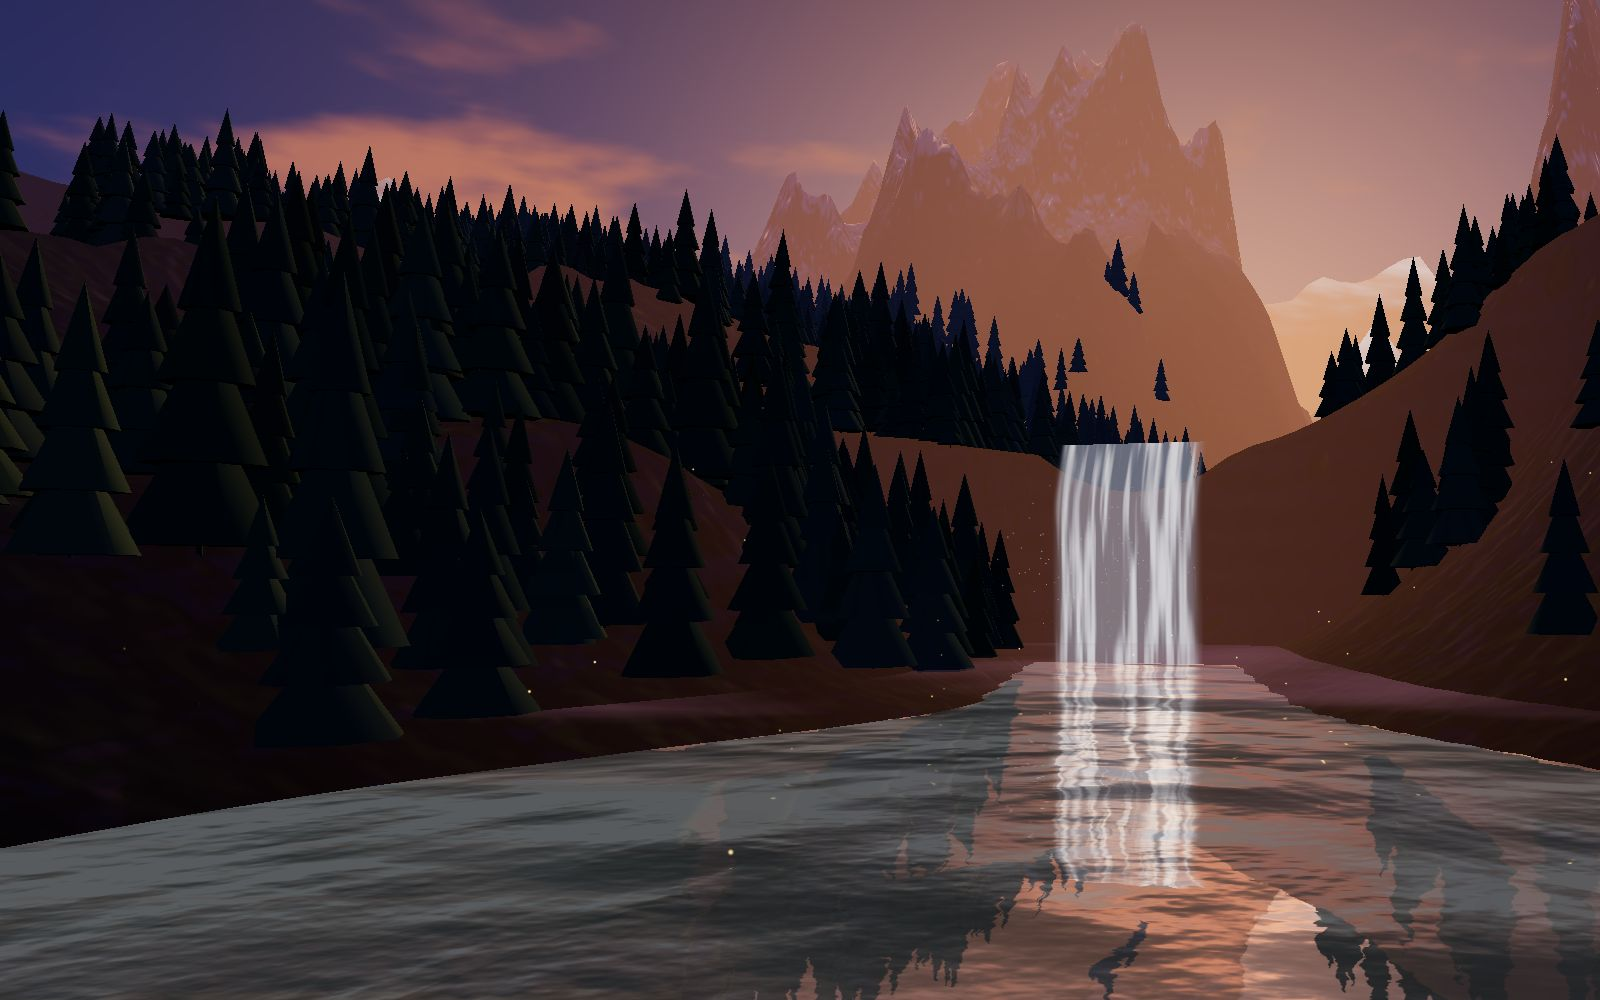
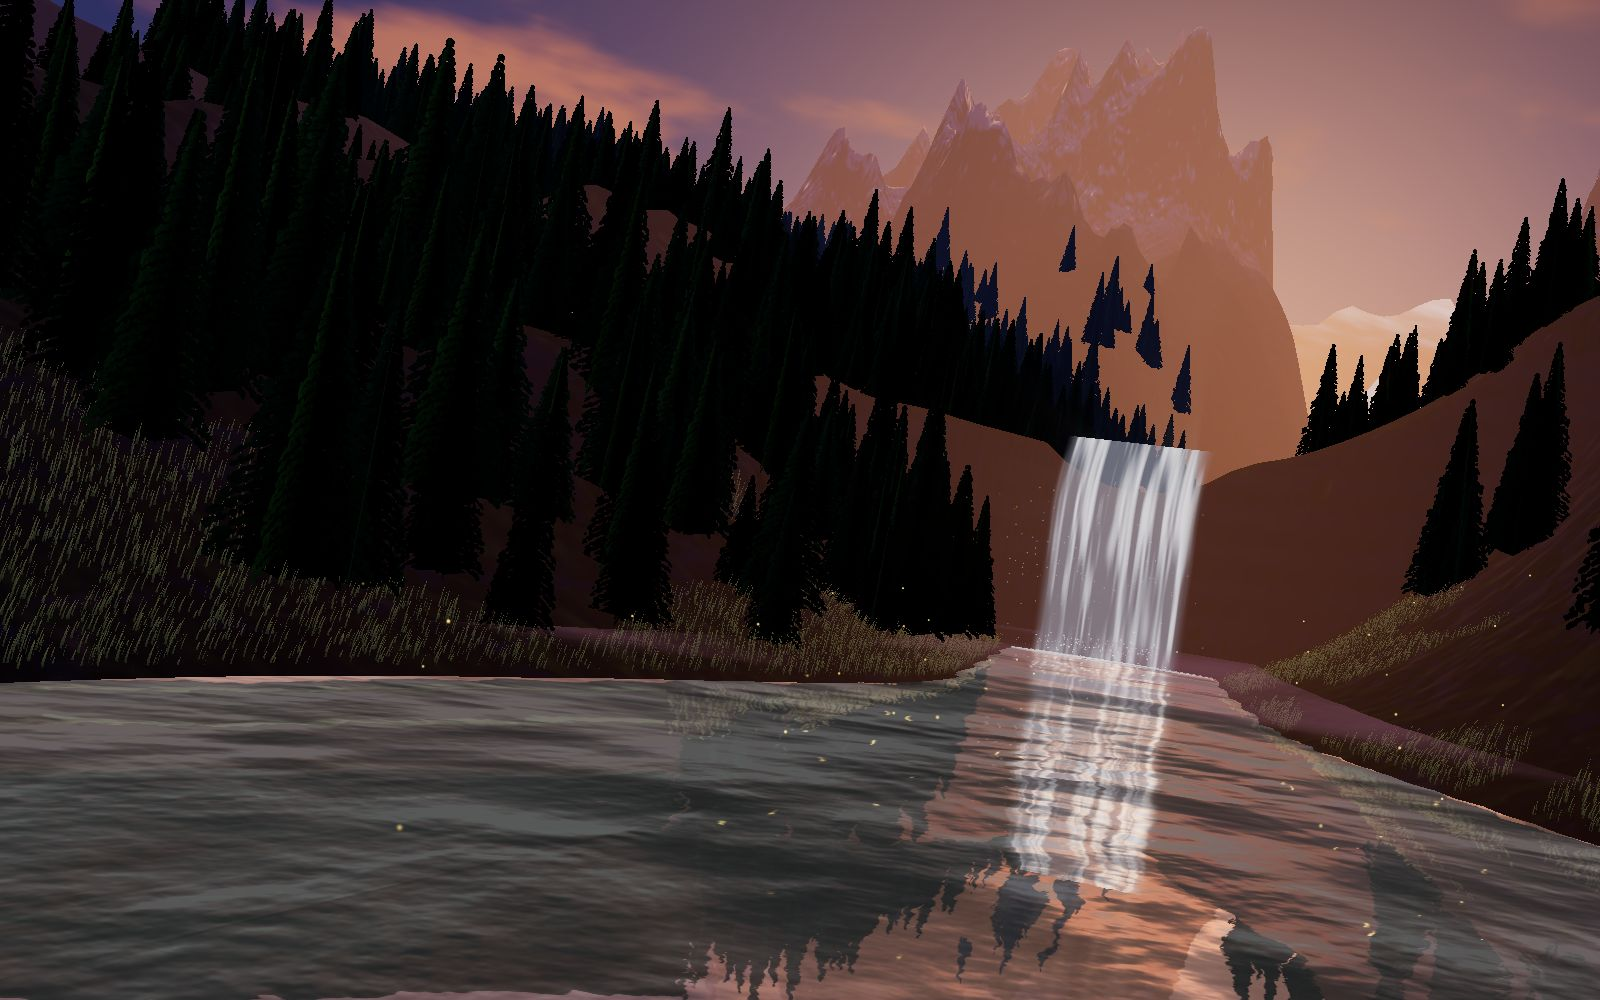
Realistic pines, meadow grass, sunbeams, waterfall foam and drone banking
- Pines are crossed cards painted with a procedural branch texture,
  giving real tree silhouettes; they still sway in the wind
- Instanced meadow grass on the lake shore, bending in the breeze
- White water and spray where the waterfall meets the lake
- Light-shaft pass fanning out from the sun (desktop)
- Camera banks gently into lateral moves while scrolling
- New poster and social image; README updated

Claude-Session: https://claude.ai/code/session_01PqPWpic3SoAv147RGqRmVc

diff --git a/src/scene.js b/src/scene.js
@@ -19,8 +19,9 @@ import {
   BufferAttribute, PlaneGeometry, SphereGeometry, ConeGeometry, ShaderMaterial, MeshLambertMaterial,
   HemisphereLight, DirectionalLight, Object3D, Color, Vector2, Vector3, Fog, MathUtils,
   BackSide, DoubleSide, AdditiveBlending, ACESFilmicToneMapping, SRGBColorSpace,
-  TextureLoader, RepeatWrapping, InstancedBufferAttribute,
+  TextureLoader, RepeatWrapping, InstancedBufferAttribute, InstancedBufferGeometry, CanvasTexture,
 } from 'three';
+import { ShaderPass } from 'three/addons/postprocessing/ShaderPass.js';
 import { Water } from 'three/addons/objects/Water.js';
 import { EffectComposer } from 'three/addons/postprocessing/EffectComposer.js';
 import { RenderPass } from 'three/addons/postprocessing/RenderPass.js';
@@ -150,6 +151,48 @@ function makeChapters() {
     process:   { pos: [riverX(-200) + 4, 34, -200], look: [riverX(-320), 40, -340],   fov: 46, sx: -0.45, sy: -0.05, mpos: [riverX(-196), 36, -196],  mfov: 60, msy: 0.3 },
     contact:   { pos: [0, 92, 20],                  look: [-10, 30, -360],            fov: 44, sx: 0.0,   sy: 0.12,  mpos: [0, 100, 30],              mfov: 58, msy: 0.1 },
   };
+}
+
+/* ---------------------------------------------------------------- pine texture */
+/* A pine painted once into a canvas: a trunk and drooping whorls of needle clusters,
+   darker inside, lighter at the tips. Used on crossed alpha-tested cards. */
+function makePineTexture() {
+  const W = 256, H = 512;
+  const c = document.createElement('canvas'); c.width = W; c.height = H;
+  const g = c.getContext('2d');
+  let seed = 7;
+  const rnd = () => ((seed = (seed * 16807) % 2147483647) / 2147483647);
+  g.fillStyle = '#2b1e15';
+  g.fillRect(W / 2 - 4, 60, 8, H - 60);
+  const whorls = 30;
+  for (let i = 0; i < whorls; i++) {
+    const p = i / (whorls - 1);
+    const y = 18 + p * (H - 70);
+    const half = (6 + p * 112) * (0.85 + rnd() * 0.3);
+    // dense dark core so the tree reads as solid
+    g.fillStyle = `hsl(${138 + rnd() * 8}, 32%, ${9 + rnd() * 4}%)`;
+    g.beginPath();
+    g.moveTo(W / 2 - half * 0.7, y + half * 0.28);
+    g.quadraticCurveTo(W / 2, y - 6, W / 2 + half * 0.7, y + half * 0.28);
+    g.lineTo(W / 2, y + half * 0.42);
+    g.closePath(); g.fill();
+    const clusters = 26 + Math.floor(p * 70);
+    for (let k = 0; k < clusters; k++) {
+      const side = rnd() < 0.5 ? -1 : 1;
+      const t = Math.pow(rnd(), 0.8);
+      const x = W / 2 + side * t * half;
+      const yy = y + t * t * half * 0.38 + (rnd() - 0.5) * 8;
+      const light = 12 + t * 16 + (1 - p) * 6 + rnd() * 8;
+      g.fillStyle = `hsl(${128 + rnd() * 18}, ${30 + rnd() * 15}%, ${light}%)`;
+      g.beginPath();
+      g.ellipse(x, yy, 3 + rnd() * 4, 2 + rnd() * 2.5, side * (0.35 + t * 0.4), 0, Math.PI * 2);
+      g.fill();
+    }
+  }
+  const tex = new CanvasTexture(c);
+  tex.colorSpace = SRGBColorSpace;
+  tex.anisotropy = 4;
+  return tex;
 }
 
 /* ---------------------------------------------------------------- world */
@@ -446,13 +489,21 @@ export function createWorld(canvas, { mobile = false } = {}) {
   const sun = new DirectionalLight(new Color('#ffb070'), 1.3);
   sun.position.copy(SUN_DIR).multiplyScalar(100).add(new Vector3(0, 60, 0));
   scene.add(hemi, sun);
-  const tiers = [[1.0, 0.42, 0.04], [0.82, 0.4, 0.26], [0.62, 0.36, 0.48], [0.4, 0.32, 0.68]].map(([r, h, y]) => {
-    const g = new ConeGeometry(r, h, 7, 1); g.translate(0, y + h / 2, 0); return g;
+  // three crossed cards per tree, painted with the pine texture
+  const cards = [0, Math.PI / 3, (2 * Math.PI) / 3].map((r) => {
+    const g = new PlaneGeometry(1, 1); g.translate(0, 0.5, 0); g.rotateY(r); return g;
   });
-  const trunk = new ConeGeometry(0.12, 0.2, 5, 1); trunk.translate(0, 0.0, 0);
-  const treeGeo = track(mergeGeometries([trunk, ...tiers]));
-  tiers.forEach((g) => g.dispose()); trunk.dispose();
-  const treeMat = track(new MeshLambertMaterial({ color: 0xffffff }));
+  const treeGeo = track(mergeGeometries(cards));
+  cards.forEach((g) => g.dispose());
+  { // soften card lighting: normals lean upward so every card catches the sky light
+    const nrm = treeGeo.attributes.normal;
+    for (let i = 0; i < nrm.count; i++) {
+      const v = new Vector3(nrm.getX(i) * 0.35, 0.94, nrm.getZ(i) * 0.35).normalize();
+      nrm.setXYZ(i, v.x, v.y, v.z);
+    }
+  }
+  const pineTex = track(makePineTexture());
+  const treeMat = track(new MeshLambertMaterial({ map: pineTex, alphaTest: 0.5, side: DoubleSide, color: 0xffffff }));
   treeMat.onBeforeCompile = (shader) => {
     shader.uniforms.uTime = uTime;
     shader.vertexShader = shader.vertexShader
@@ -483,11 +534,11 @@ export function createWorld(canvas, { mobile = false } = {}) {
     if (keepClear.some(([cx, cz]) => (x - cx) ** 2 + (z - cz) ** 2 < 220)) continue; // never in front of the lens
     const s = 0.8 + Math.random() * 0.9;
     dummy.position.set(x, h - 0.3, z);
-    dummy.scale.set(1.6 * s, (5.5 + Math.random() * 3.5) * s, 1.6 * s);
+    dummy.scale.set(3.6 * s, (6.5 + Math.random() * 3.5) * s, 3.6 * s);
     dummy.rotation.y = Math.random() * Math.PI;
     dummy.updateMatrix();
     trees.setMatrixAt(placed, dummy.matrix);
-    tint.setHSL(0.36 + Math.random() * 0.07, 0.32, 0.11 + Math.random() * 0.08);
+    tint.setHSL(0.3 + Math.random() * 0.08, 0.25, 0.62 + Math.random() * 0.3);
     trees.setColorAt(placed, tint);
     placed++;
   }
@@ -545,6 +596,117 @@ export function createWorld(canvas, { mobile = false } = {}) {
   birds.frustumCulled = false;
   scene.add(birds);
 
+  /* ---- meadow grass on the lake shore, moving in the breeze ---- */
+  {
+    const bladeN = mobile ? 9000 : 28000;
+    const blade = new PlaneGeometry(0.075, 1, 1, 3); blade.translate(0, 0.5, 0);
+    const gGeo = track(new InstancedBufferGeometry());
+    gGeo.index = blade.index;
+    gGeo.setAttribute('position', blade.attributes.position);
+    gGeo.setAttribute('uv', blade.attributes.uv);
+    const gPos = new Float32Array(bladeN * 3), gRnd = new Float32Array(bladeN * 2);
+    let n = 0;
+    for (let tries = 0; tries < bladeN * 8 && n < bladeN; tries++) {
+      const z = -52 + Math.random() * 128;
+      const x = riverX(z) + (Math.random() - 0.5) * 120;
+      const h = heightAt(x, z);
+      if (h < LOW_WATER + 0.25 || h > 10) continue;
+      if (Math.abs(heightAt(x + 1, z) - h) + Math.abs(heightAt(x, z + 1) - h) > 1.1) continue;
+      if (fbm(x * 0.08, z * 0.08, 2) < 0.32) continue; // patches
+      gPos.set([x, h - 0.05, z], n * 3);
+      gRnd.set([Math.random(), Math.random()], n * 2);
+      n++;
+    }
+    gGeo.setAttribute('aPos', new InstancedBufferAttribute(gPos, 3));
+    gGeo.setAttribute('aRnd', new InstancedBufferAttribute(gRnd, 2));
+    gGeo.instanceCount = n;
+    const grass = new Mesh(gGeo, track(new ShaderMaterial({
+      side: DoubleSide,
+      uniforms: { uTime, ...skyU },
+      vertexShader: /* glsl */ `
+        uniform float uTime; attribute vec3 aPos; attribute vec2 aRnd; varying float vY; varying vec3 vW;
+        void main(){
+          vec3 p = position;
+          float h = 0.28 + aRnd.y * 0.55;
+          p.x *= 1.0 - position.y * 0.85;
+          p.y *= h;
+          float r = aRnd.x * 6.2832;
+          p.xz = mat2(cos(r), -sin(r), sin(r), cos(r)) * p.xz;
+          float w = sin(uTime * 1.7 + aPos.x * 0.35 + aPos.z * 0.22) * 0.5 + 0.5;
+          w += sin(uTime * 3.1 + aPos.x * 1.3) * 0.15;
+          float bend = position.y * position.y * h;
+          p.x += (w * 0.32 + 0.08) * bend;
+          p.z += w * 0.12 * bend;
+          vec3 wp = aPos + p;
+          vY = position.y; vW = wp;
+          gl_Position = projectionMatrix * viewMatrix * vec4(wp, 1.0);
+        }`,
+      fragmentShader: `${SKY_FN}${AERIAL}
+        varying float vY; varying vec3 vW;
+        void main(){
+          vec3 base = vec3(0.012, 0.022, 0.014);
+          vec3 tip = vec3(0.06, 0.08, 0.035);
+          vec3 col = mix(base, tip, vY);
+          col += uHorWarm * pow(vY, 3.0) * 0.05;
+          gl_FragColor = vec4(aerial(col, vW, 0.9), 1.0);
+          ${OUT}
+        }`,
+    })));
+    grass.frustumCulled = false;
+    scene.add(grass);
+    blade.dispose();
+  }
+
+  /* ---- white water where the fall hits the lake ---- */
+  const foam = new Mesh(track(new PlaneGeometry(26, 16)), track(new ShaderMaterial({
+    transparent: true, depthWrite: false,
+    uniforms: { uTime },
+    vertexShader: 'varying vec2 vUv; void main(){ vUv = uv; gl_Position = projectionMatrix * modelViewMatrix * vec4(position, 1.0); }',
+    fragmentShader: `${NOISE_GLSL}
+      uniform float uTime; varying vec2 vUv;
+      void main(){
+        vec2 c = (vUv - vec2(0.5, 0.82)) * vec2(1.0, 1.6);
+        float d = length(c);
+        float n = fbm2(vec2(atan(c.y, c.x) * 3.0, d * 9.0 - uTime * 1.6));
+        float a = smoothstep(0.55, 0.0, d) * smoothstep(0.35, 0.75, n + 0.25 * (1.0 - d));
+        gl_FragColor = vec4(vec3(0.82, 0.86, 0.92), a * 0.85);
+        ${OUT}
+      }`,
+  })));
+  foam.rotation.x = -Math.PI / 2;
+  foam.position.set(wfX, LOW_WATER + 0.06, CLIFF_Z + 7.5);
+  scene.add(foam);
+  const sprayN = mobile ? 60 : 160;
+  const sPos = new Float32Array(sprayN * 3), sSeed = new Float32Array(sprayN);
+  for (let i = 0; i < sprayN; i++) { sPos.set([wfX + (Math.random() - 0.5) * 11, LOW_WATER, CLIFF_Z + 1.5], i * 3); sSeed[i] = Math.random(); }
+  const sprayGeo = track(new BufferGeometry());
+  sprayGeo.setAttribute('position', new BufferAttribute(sPos, 3));
+  sprayGeo.setAttribute('aSeed', new BufferAttribute(sSeed, 1));
+  const spray = new Points(sprayGeo, track(new ShaderMaterial({
+    transparent: true, depthWrite: false,
+    uniforms: { uTime, uPR: { value: dpr } },
+    vertexShader: /* glsl */ `
+      uniform float uTime; uniform float uPR; attribute float aSeed; varying float vA;
+      void main(){
+        float life = fract(uTime * (0.5 + aSeed * 0.4) + aSeed * 7.0);
+        vec3 p = position;
+        float ang = aSeed * 6.2832;
+        p.x += cos(ang) * life * 3.0;
+        p.z += abs(sin(ang)) * life * 4.0;
+        p.y += life * (3.5 + aSeed * 2.5) - life * life * 4.5;
+        vA = (1.0 - life) * 0.75;
+        vec4 mv = modelViewMatrix * vec4(p, 1.0);
+        gl_Position = projectionMatrix * mv;
+        gl_PointSize = uPR * (6.0 + aSeed * 8.0) * (20.0 / max(-mv.z, 1.0));
+      }`,
+    fragmentShader: /* glsl */ `
+      varying float vA;
+      void main(){ float d = length(gl_PointCoord - 0.5); float a = (1.0 - smoothstep(0.1, 0.5, d)) * vA;
+        gl_FragColor = vec4(vec3(0.9, 0.93, 0.98), a); }`,
+  })));
+  spray.frustumCulled = false;
+  scene.add(spray);
+
   /* ---- fireflies over the lake shore ---- */
   const ffN = mobile ? 90 : 200;
   const fPos = new Float32Array(ffN * 3), fSeed = new Float32Array(ffN);
@@ -582,9 +744,32 @@ export function createWorld(canvas, { mobile = false } = {}) {
 
   /* ---- post (desktop): gentle bloom on the sky glow, water glint and fireflies ---- */
   let composer = null;
+  let raysPass = null;
   if (!mobile) {
     composer = new EffectComposer(renderer);
     composer.addPass(new RenderPass(scene, camera));
+    // light shafts: march from each pixel toward the sun and gather the bright sky behind the peaks
+    raysPass = new ShaderPass({
+      uniforms: { tDiffuse: { value: null }, uSun: { value: new Vector2(0.5, 0.5) }, uStrength: { value: 0 } },
+      vertexShader: 'varying vec2 vUv; void main(){ vUv = uv; gl_Position = projectionMatrix * modelViewMatrix * vec4(position, 1.0); }',
+      fragmentShader: /* glsl */ `
+        uniform sampler2D tDiffuse; uniform vec2 uSun; uniform float uStrength; varying vec2 vUv;
+        void main(){
+          vec4 base = texture2D(tDiffuse, vUv);
+          if (uStrength <= 0.001) { gl_FragColor = base; return; }
+          vec2 delta = (vUv - uSun) * (0.92 / 40.0);
+          vec2 uv = vUv; float decay = 1.0; vec3 acc = vec3(0.0);
+          for (int i = 0; i < 40; i++) {
+            uv -= delta;
+            vec3 s = texture2D(tDiffuse, uv).rgb;
+            float l = max(dot(s, vec3(0.3, 0.59, 0.11)) - 0.42, 0.0);
+            acc += s * l * decay;
+            decay *= 0.955;
+          }
+          gl_FragColor = vec4(base.rgb + acc * (uStrength / 40.0) * vec3(1.0, 0.82, 0.62), base.a);
+        }`,
+    });
+    composer.addPass(raysPass);
     composer.addPass(new UnrealBloomPass(new Vector2(1, 1), 0.35, 0.6, 0.78));
     composer.addPass(new OutputPass());
   }
@@ -601,7 +786,8 @@ export function createWorld(canvas, { mobile = false } = {}) {
   let velocity = 0;
   let raf = 0, running = false, last = performance.now(), time = 0, intro = 0, first = true;
   let section = 'hero', sectionProgress = 0;
-  const tmp = new Vector3();
+  const tmp = new Vector3(), prevCam = new Vector3(), lateral = new Vector3(), right = new Vector3(), sunScreen = new Vector3();
+  let bank = 0;
 
   function view(name, out) {
     const c = CHAPTERS[name];
@@ -672,13 +858,27 @@ export function createWorld(canvas, { mobile = false } = {}) {
     tmp.y += Math.sin(time * 0.17) * 0.2;
     const ground = Math.max(heightAt(tmp.x, tmp.z), tmp.z > CLIFF_Z - 3 ? LOW_WATER : HIGH_WATER);
     if (tmp.y < ground + 6) tmp.y = ground + 6;
+    // drone-like bank into lateral moves
+    lateral.copy(tmp).sub(prevCam);
+    prevCam.copy(tmp);
+    right.set(1, 0, 0).applyQuaternion(camera.quaternion);
+    const bankTarget = MathUtils.clamp(-lateral.dot(right) * 0.05, -0.07, 0.07);
+    bank += (bankTarget - bank) * (1 - Math.exp(-dt * 3));
     camera.position.copy(tmp);
     sky.position.copy(tmp);
     camera.lookAt(cur.look);
+    camera.rotateZ(bank);
     camera.fov = cur.fov;
     camera.setViewOffset(width, height, -cur.sx * width / 2, cur.sy * height / 2, width, height);
     camera.updateProjectionMatrix();
 
+    if (raysPass) {
+      sunScreen.copy(SUN_DIR).multiplyScalar(900).add(camera.position).project(camera);
+      const facing = sunScreen.z < 1 ? 1 : 0;
+      const off = Math.max(Math.abs(sunScreen.x), Math.abs(sunScreen.y));
+      raysPass.uniforms.uSun.value.set(sunScreen.x * 0.5 + 0.5, sunScreen.y * 0.5 + 0.5);
+      raysPass.uniforms.uStrength.value = facing * (1 - MathUtils.smoothstep(off, 1.0, 2.2)) * 0.9;
+    }
     if (composer) composer.render(); else renderer.render(scene, camera);
   }
 

diff --git a/README.md b/README.md
@@ -8,7 +8,7 @@ The personal portfolio of **Mohammed Ali**, a full-stack web developer who also 
 
 ## Highlights
 
-- **A natural 3D landscape.** The whole page sits inside one mountain valley at dusk, built in code with Three.js: a waterfall pouring into a mirror-still lake that truly reflects the peaks, trees and sunset, a river winding up through pine forest, layered mountain ranges with snowy peaks, drifting clouds, low mist over the water, a flock of birds, fireflies, and pines that sway in the wind. Slopes have fine rocky relief and layered strata. Distant hills fade into the evening haze the way real mountains do.
+- **A natural 3D landscape.** The whole page sits inside one mountain valley at dusk, built in code with Three.js: a waterfall pouring into a mirror-still lake that truly reflects the peaks, trees and sunset, a river winding up through pine forest, layered mountain ranges with snowy peaks, drifting clouds, low mist over the water, a flock of birds, fireflies, pine trees with real branch silhouettes that sway in the wind, meadow grass moving in the breeze, white water and spray where the waterfall meets the lake, and sunbeams fanning out from the sunset (desktop). The camera banks gently like a drone as it flies between sections. Slopes have fine rocky relief and layered strata. Distant hills fade into the evening haze the way real mountains do.
 - **Scroll-driven camera.** Scrolling flies the camera up the valley. Each section has its own view, framed on the side opposite the text, and the camera eases smoothly between them. Moving the pointer adds gentle depth.
 - **Readable on every screen.** The near landscape stays dark and the warm light lives on the horizon, so text keeps strong contrast; phones get a lighter scene (fewer trees, less detail, no glow pass) so scrolling stays smooth.
 - **Live GitHub projects.** Every public repository is pulled from the GitHub API in the visitor's browser, so new repos show up without a rebuild. Filter them by language; deployed repos get a **Live site** link.
